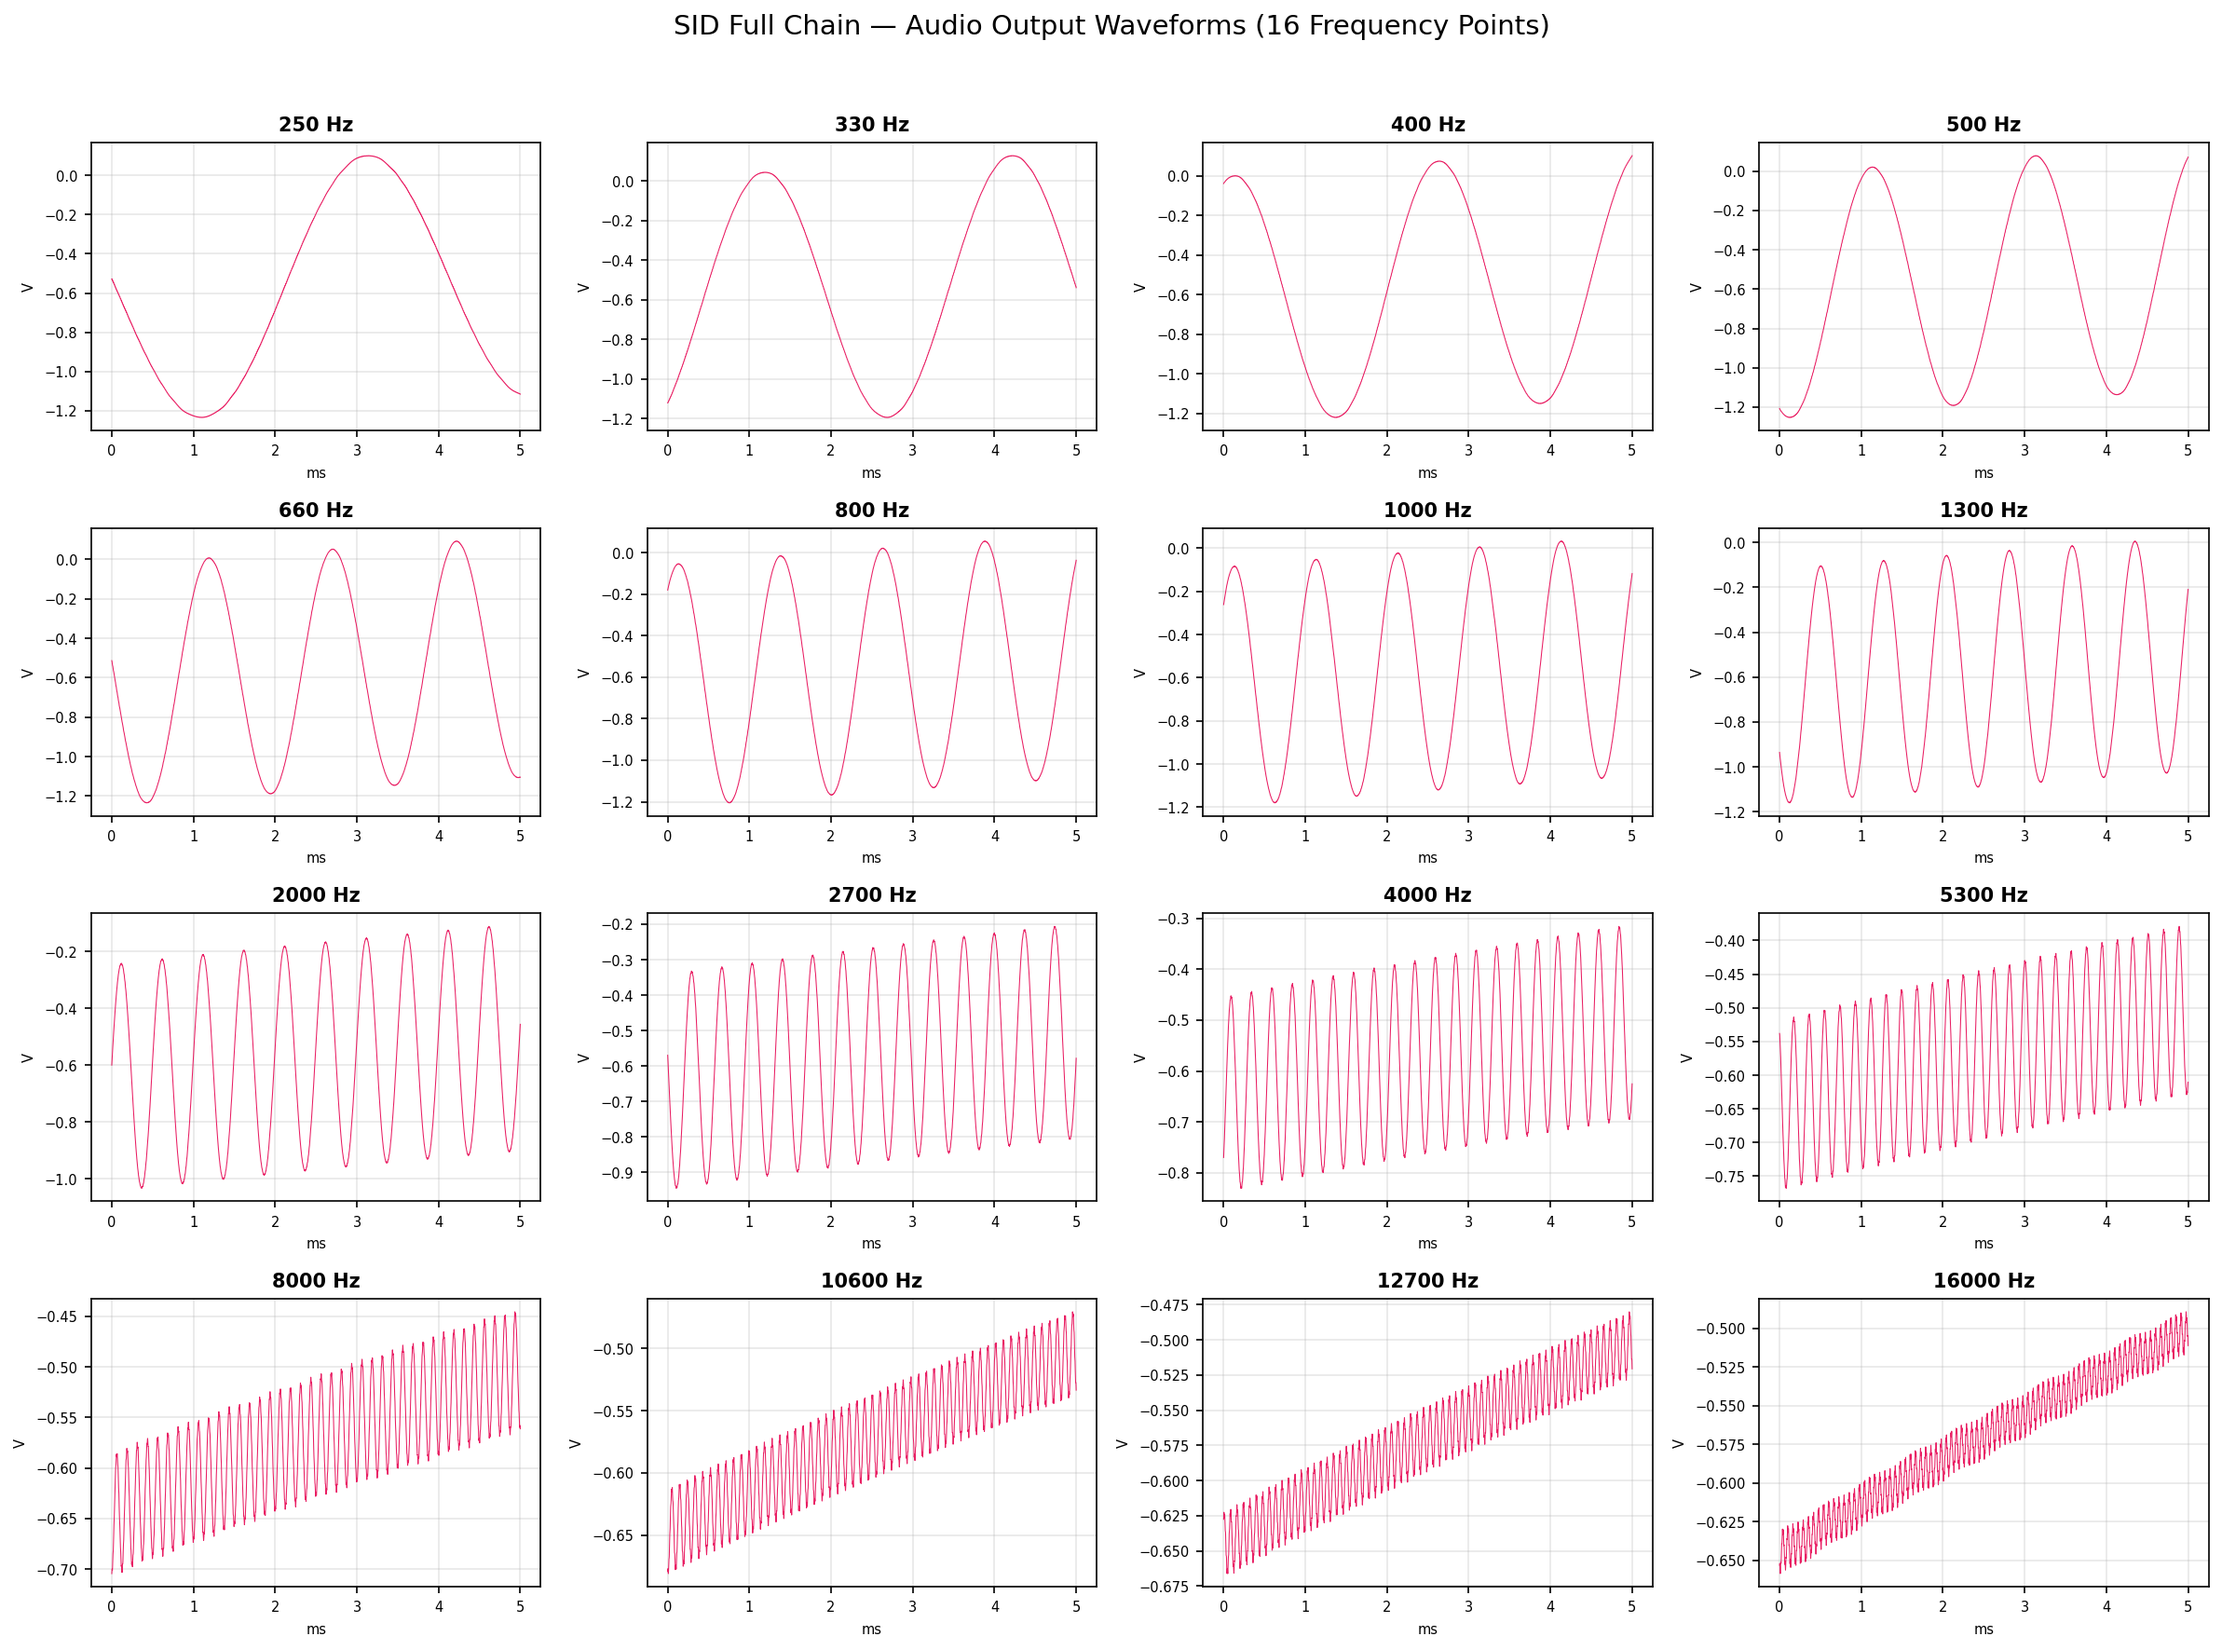
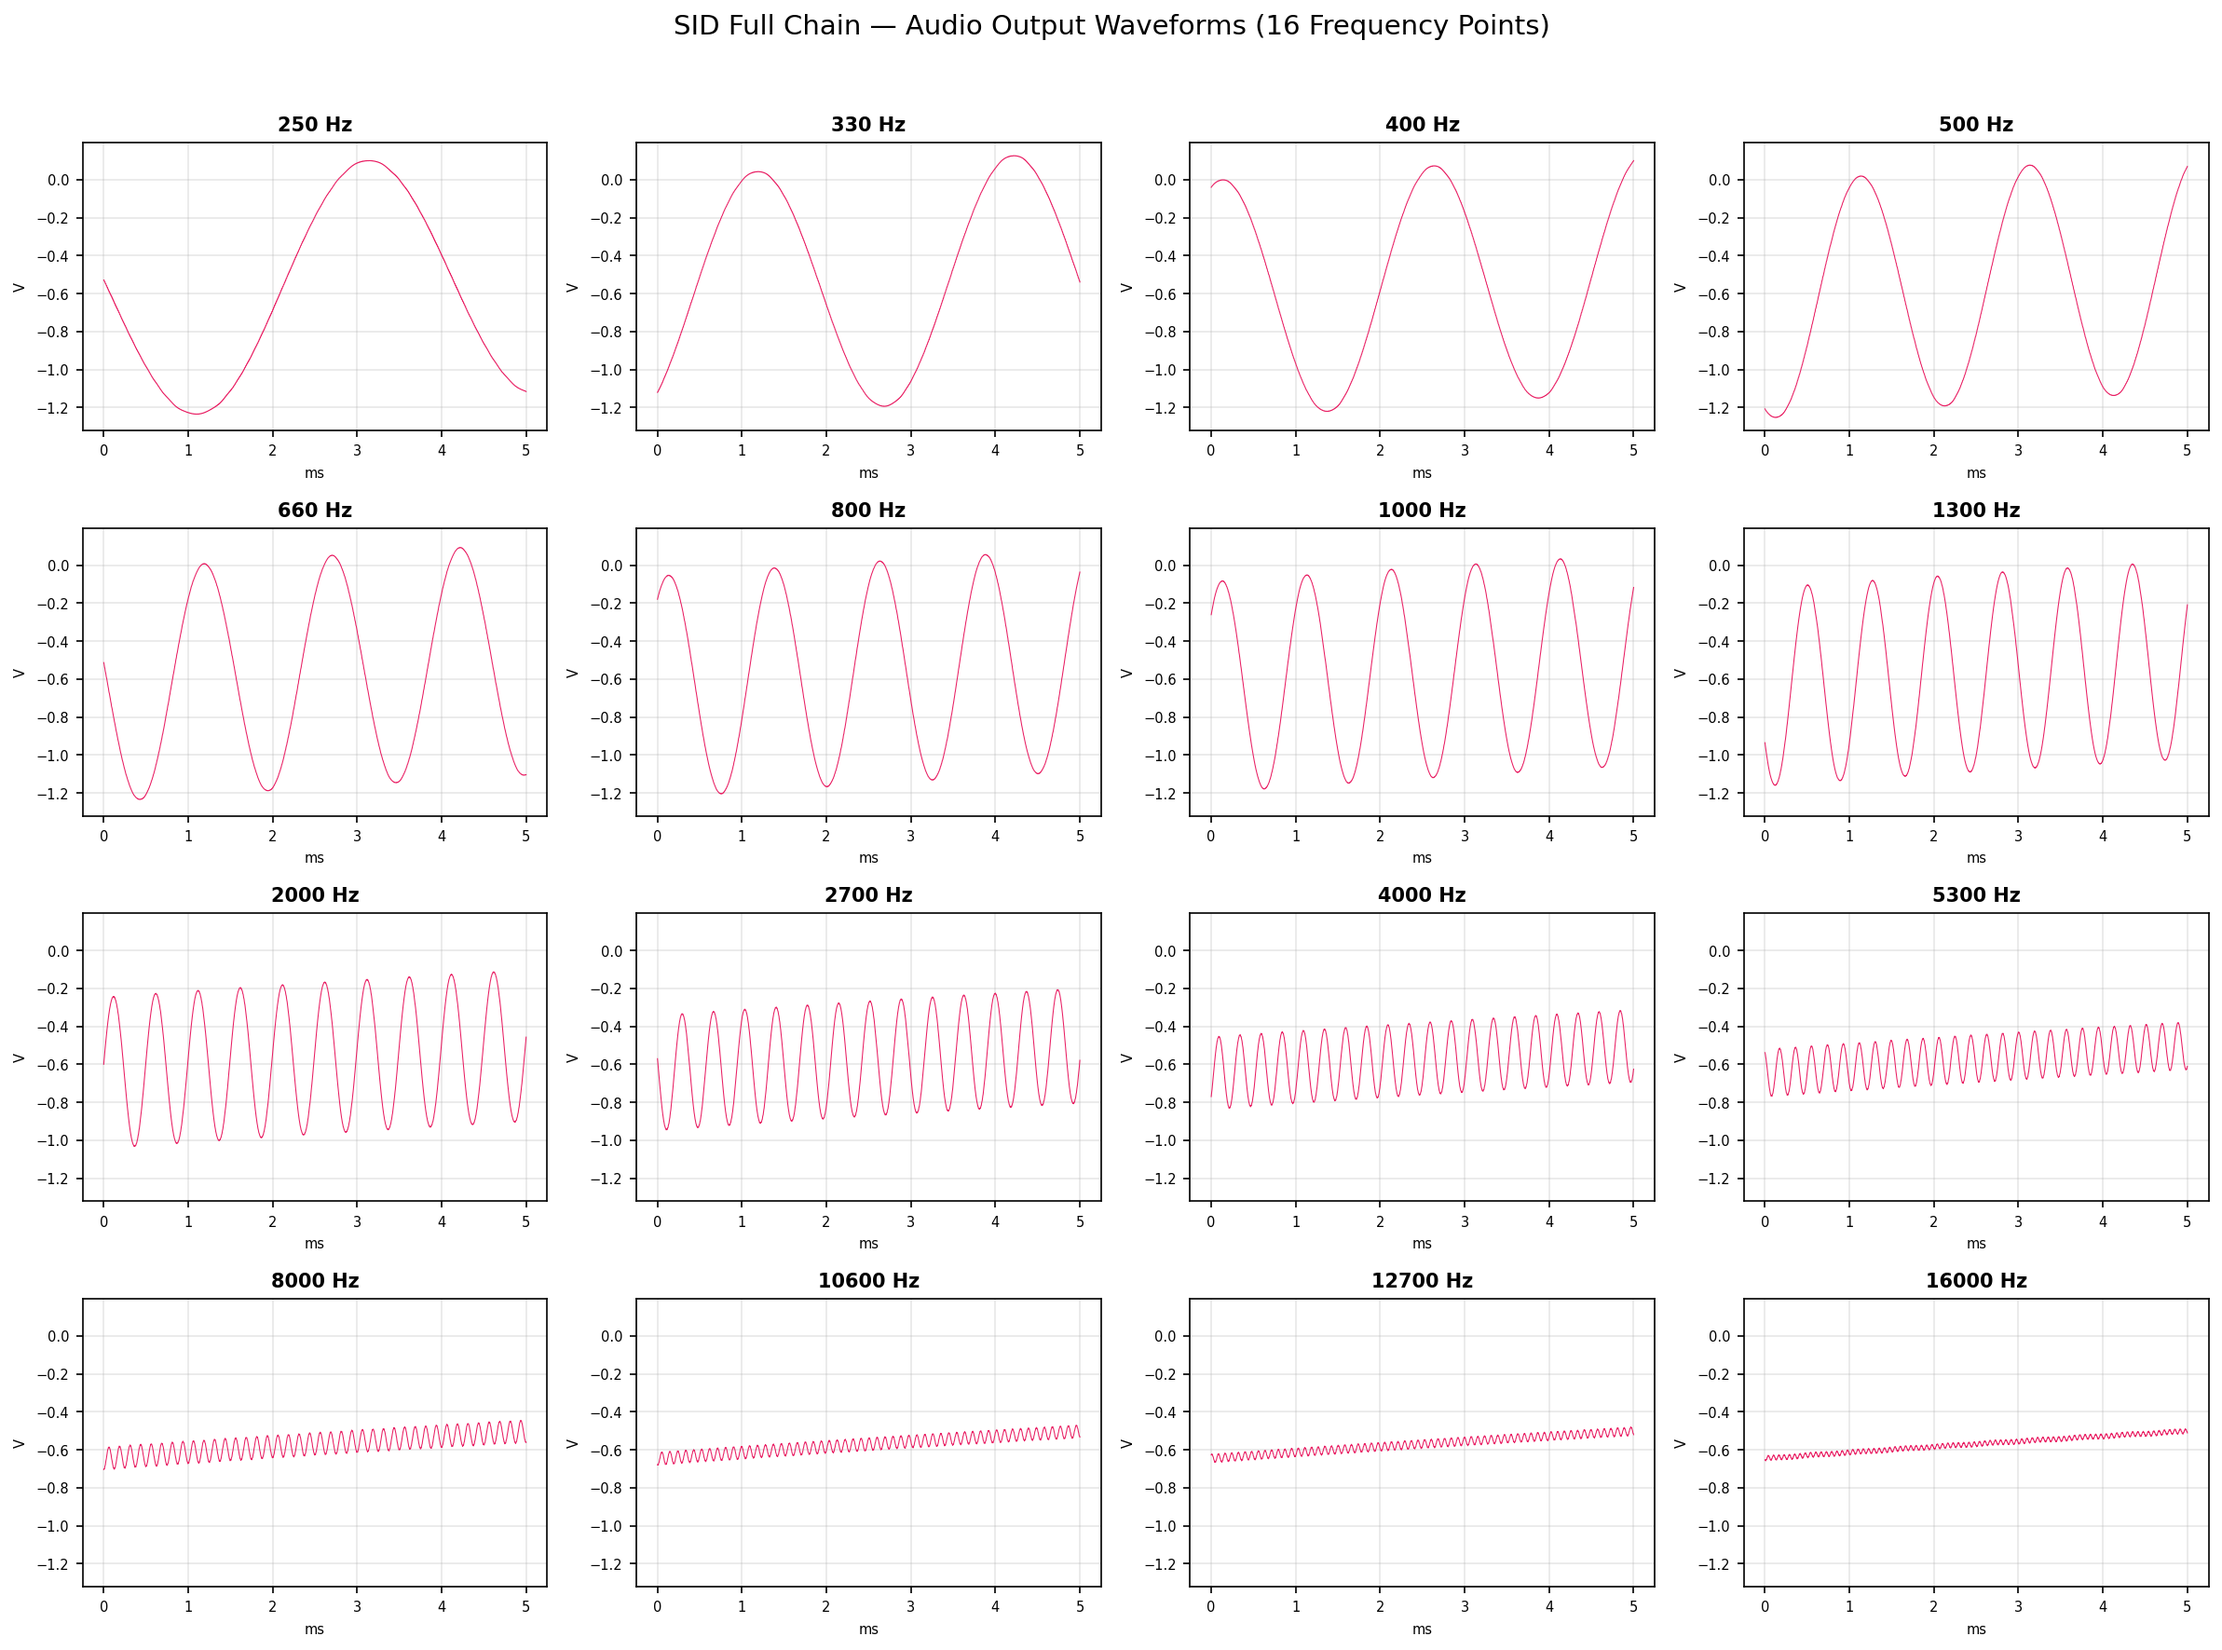
Use uniform y-axis scale across all 16 waveform waterfall subplots

diff --git a/analog_sim/full_sweep/plot_sweep.py b/analog_sim/full_sweep/plot_sweep.py
@@ -115,6 +115,21 @@ def plot_waveform_grid(segments, outpath):
     fig.suptitle("SID Full Chain \u2014 Audio Output Waveforms (16 Frequency Points)",
                  fontsize=14, y=0.98)
 
+    # Compute global y-range across all 16 segments for uniform scaling
+    y_min, y_max = 0.0, 0.0
+    for i in range(len(FREQS)):
+        if i < len(segments) and len(segments[i]) > 0:
+            data = segments[i]
+            t = data[:, COL_TIME]
+            mask = t >= 5e-3
+            if np.any(mask):
+                audio_out = data[mask, COL_AUDIO]
+                y_min = min(y_min, audio_out.min())
+                y_max = max(y_max, audio_out.max())
+    y_margin = (y_max - y_min) * 0.05 if y_max > y_min else 0.1
+    y_min -= y_margin
+    y_max += y_margin
+
     for i, freq in enumerate(FREQS):
         row, col = divmod(i, 4)
         ax = axes[row][col]
@@ -133,6 +148,7 @@ def plot_waveform_grid(segments, outpath):
         ax.set_title(f"{freq} Hz", fontsize=10, fontweight="bold")
         ax.set_xlabel("ms", fontsize=7)
         ax.set_ylabel("V", fontsize=7)
+        ax.set_ylim(y_min, y_max)
         ax.tick_params(labelsize=7)
         ax.grid(True, alpha=0.3)
 
